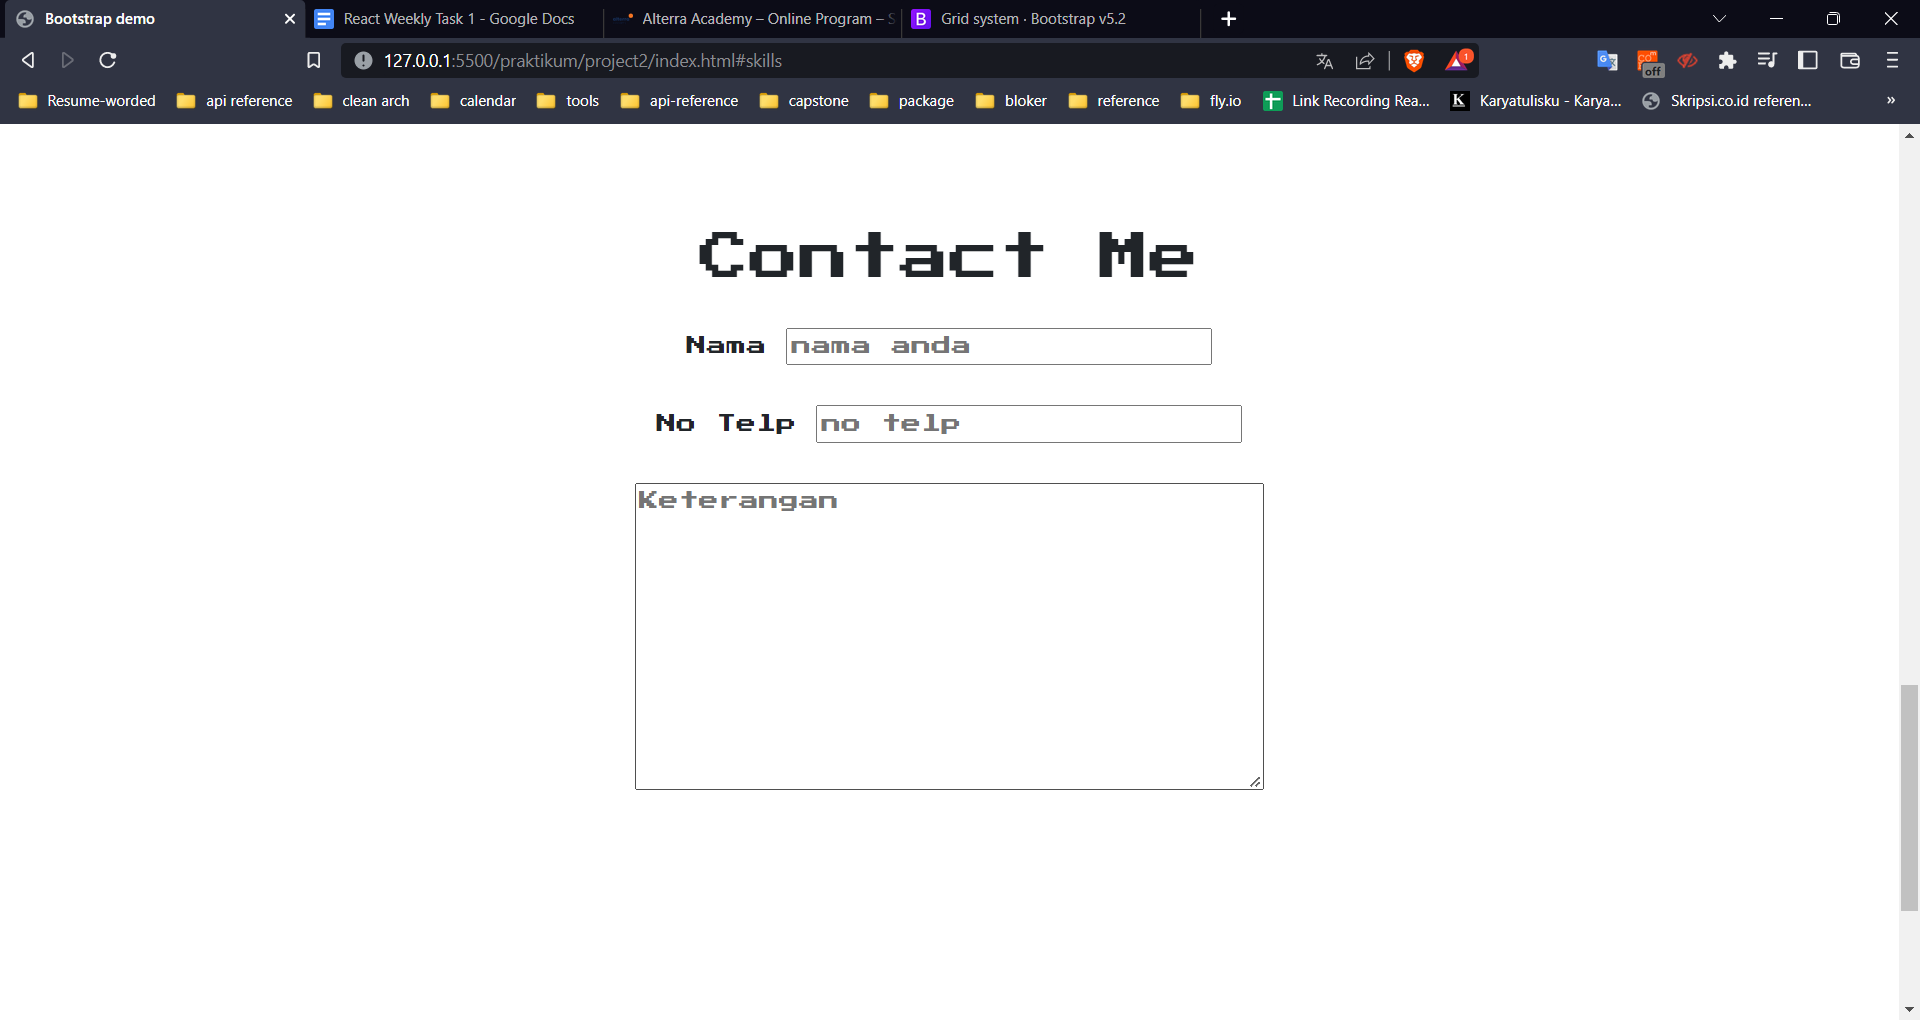
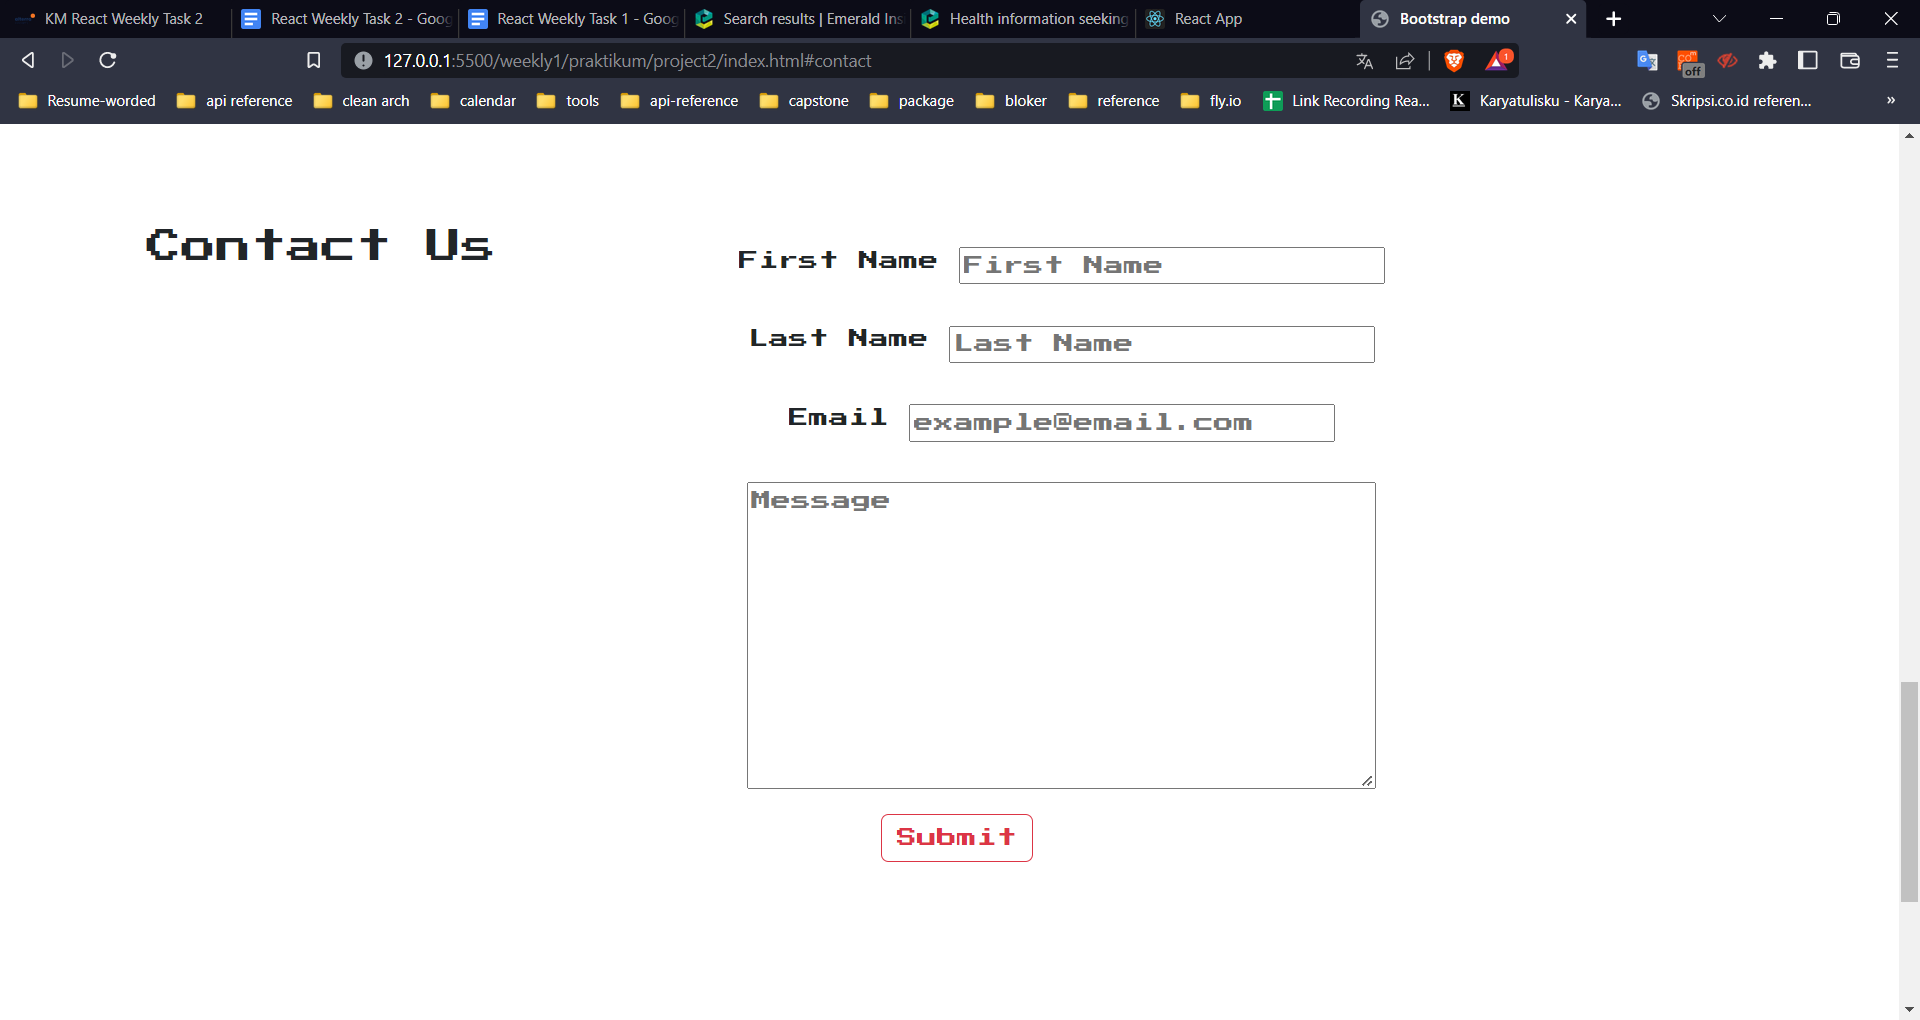
fix image and added alert after submit data in contact me

diff --git a/28_weekly_task/weekly1/praktikum/project2/index.html b/28_weekly_task/weekly1/praktikum/project2/index.html
@@ -44,6 +44,9 @@
             <li class="nav-item">
               <a class="nav-link" href="#skills">Skills</a>
             </li>
+            <li class="nav-item">
+              <a class="nav-link" href="#contact">Contact</a>
+            </li>
           </ul>
         </div>
       </div>
@@ -107,26 +110,35 @@
     </section>
 
     <section class="contact" id="contact" style="margin: 12vw 0 !important">
-      <div class="container">
-        <h1 class="text-center my-3">Contact Us</h1>
-        <form>
-          <div class="row justify-content-center text-center">
+      <form onsubmit="submitData()">
+        <div class="row justify-content-center text-center align-items-center">
+          <div class="col-4"><h3>Contact Us</h3></div>
+          <div class="col-8 row">
             <div class="col-8 my-3">
-              <label for="nama">Nama</label>
+              <label for="nama">First Name</label>
               <input
                 type="text"
-                name="nama"
-                id="nama"
-                placeholder="nama anda"
+                name="fnama"
+                id="fnama"
+                placeholder="First Name"
               />
             </div>
             <div class="col-8 my-3">
-              <label for="noTelp">No Telp</label>
+              <label for="nama">Last Name</label>
               <input
                 type="text"
-                name="noTelp"
-                id="noTelp"
-                placeholder="no telp"
+                name="lnama"
+                id="lnama"
+                placeholder="Last Name"
+              />
+            </div>
+            <div class="col-8 my-3">
+              <label for="email">Email</label>
+              <input
+                type="text"
+                name="email"
+                id="email"
+                placeholder="example@email.com"
               />
             </div>
             <div class="col-8 my-3">
@@ -135,15 +147,17 @@
                 id="keterangan"
                 cols="30"
                 rows="10"
-                placeholder="Keterangan"
+                placeholder="Message"
               ></textarea>
             </div>
             <div class="col-6">
-              <button class="btn btn-outline-danger">Submit</button>
+              <button class="btn btn-outline-danger" type="submit">
+                Submit
+              </button>
             </div>
           </div>
-        </form>
-      </div>
+        </div>
+      </form>
     </section>
 
     <section
@@ -184,5 +198,20 @@
       integrity="sha384-OERcA2EqjJCMA+/3y+gxIOqMEjwtxJY7qPCqsdltbNJuaOe923+mo//f6V8Qbsw3"
       crossorigin="anonymous"
     ></script>
+    <script>
+      let fullName = "";
+      function submitData() {
+        fullName =
+          document.getElementById("fnama").value +
+          " " +
+          document.getElementById("lnama").value;
+        email = document.getElementById("email").value;
+        !fullName || !email
+          ? alert("please insert first name, lastn name, and email")
+          : alert(
+              `Hello ${fullName} \nEmail anda ${email}\nakun anda terdaftar!`
+            );
+      }
+    </script>
   </body>
 </html>

diff --git a/28_weekly_task/weekly1/praktikum/project2/assets/css/style.css b/28_weekly_task/weekly1/praktikum/project2/assets/css/style.css
@@ -1,3 +1,6 @@
+* {
+  overflow-x: hidden;
+}
 .hero-image {
   background-image: url("../img/hero-img.gif");
   background-color: #cccccc;
